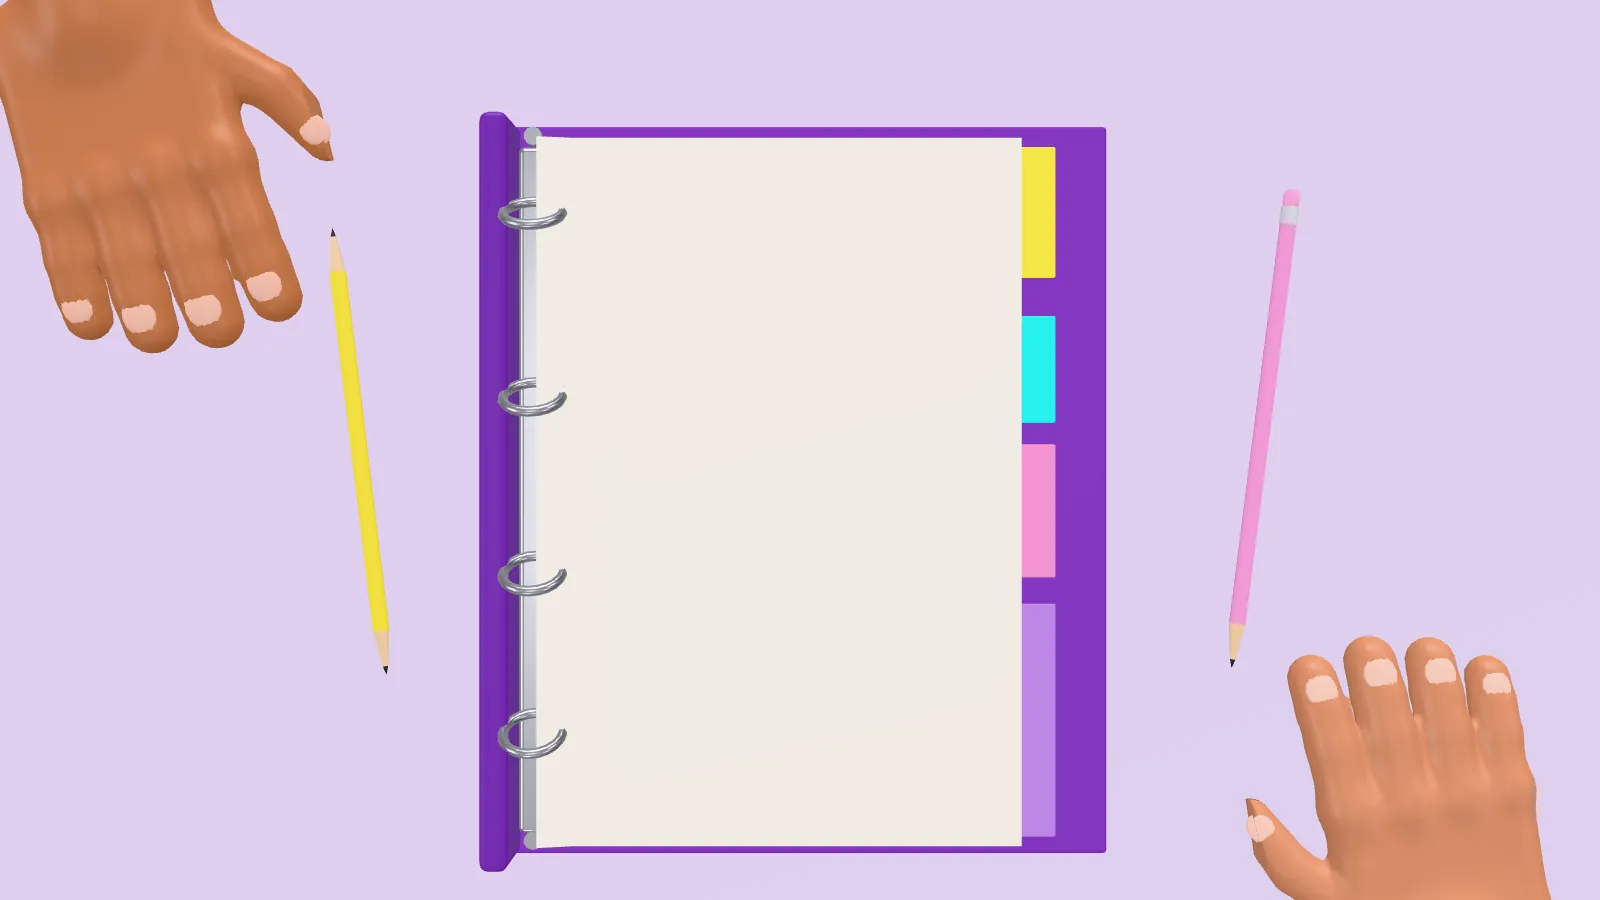
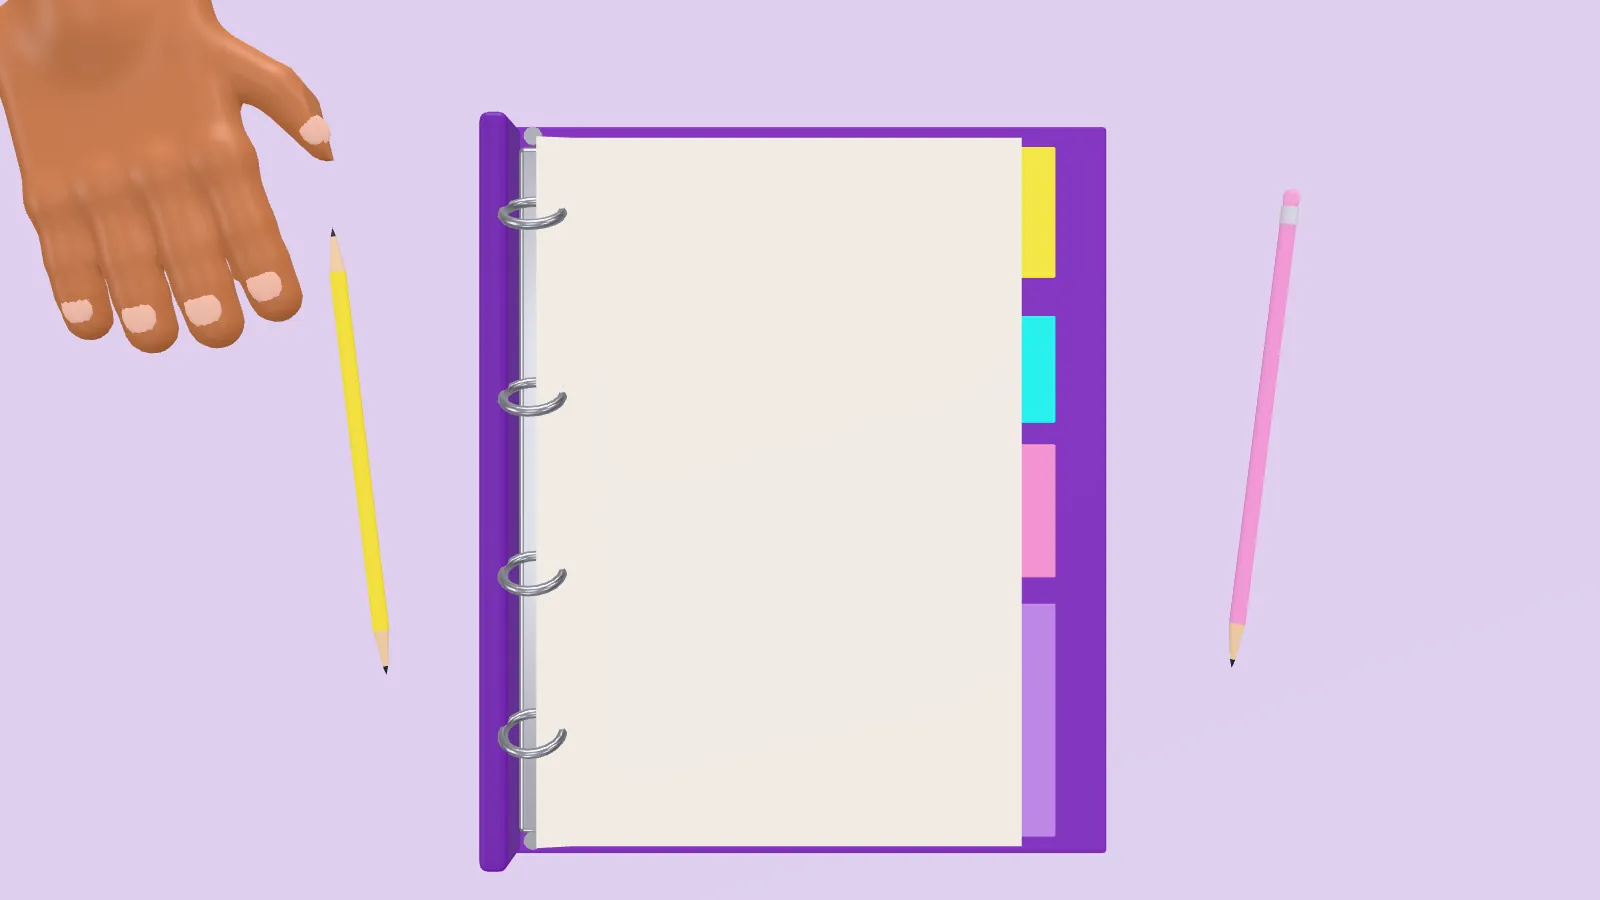
Draw Bu Dewi's close-up hand back out of view as she lets go of the leaflet (#14)
In the top views her own forearm folds into the close-up hand's sleeve, which
ended 0.27 m from her elbow at K3 and 0.55 m once the hand moved beside the
binder in beat 4. Both ends stayed out of frame at K3 and K4, but as the camera
rose and turned to K4.1 the gap showed: a sleeve coming down left of the binder,
her body at the top right.

As she lets go (beat 4 letGo), the close-up hand now slides back along its
sleeve out of the bottom of the frame and is switched off; her own forearm
unfolds and her right hand returns to the counter in front of her. Heru's hand,
the camera, timing and copy are unchanged. The K4 pc still is re-rendered
without her hand.

Refs #14

Changed region(s): [[0.7812, 0.6844, 0.9688, 1.0]]

diff --git a/site/world/sets/counterProps.ts b/site/world/sets/counterProps.ts
@@ -11,7 +11,7 @@ import { clean, G, mtx, type Kit, type Vec3 } from "../core/kit";
 import { rectAnchorFrom, type Anchor } from "../core/anchors";
 import { BINDER, counterLayout, type CounterLayout } from "../takes/home/counter";
 import { PAGE, PAGE_COPY, TABS } from "./binderLayout";
-import { beatAt, DEWI_HOLDS, phase4, type Beat3 } from "../takes/home/counterCast";
+import { beatAt, dewiCloseHand, phase4, type Beat3 } from "../takes/home/counterCast";
 import type { CloseHands } from "../cast/closeHand";
 
 /** The close-up hands replace the cast's own hands once the camera looks down steeper than this (radians). */
@@ -19,12 +19,18 @@ export const HANDS_PITCH = -THREE.MathUtils.degToRad(60);
 /**
  * Where the close-up hands lie, from the keyframes: the middle fingertip relative to a leaflet corner (K3:
  * Heru's on the corner nearest him on the left, Bu Dewi's on the one nearest her on the right) or to the binder
- * (K4), and the way the fingers point (yaw; 0 = fingers toward Bu Dewi).
+ * (K4, Heru's only), and the way the fingers point (yaw; 0 = fingers toward Bu Dewi).
  */
 const HAND_AT = {
   heru: { hold: { tip: [-0.03, -0.025], yaw: 0.3 }, rest: { tip: [0.256, 0.074], yaw: 0.25 } },
-  dewi: { hold: { tip: [0.028, 0.038], yaw: Math.PI + 0.55 }, rest: { tip: [-0.25, -0.075], yaw: Math.PI + 0.15 } },
+  dewi: { hold: { tip: [0.028, 0.038], yaw: Math.PI + 0.55 } },
 } as const;
+/**
+ * Issue #14: in beat 4 Bu Dewi's close-up hand no longer rests beside the binder (its sleeve ended ±0.55 m from
+ * her elbow, and the arm read as cut off once the camera rose to K4.1). As she lets go it is drawn back along its
+ * sleeve toward her, this far (metres), out of the bottom of the top view; then her own arm takes over.
+ */
+const DEWI_DRAW_BACK = 0.5;
 
 /** Purple strip of the leaflet: 11 mm below its top edge, 3 mm wide, edge to edge (K3 pc and hp). */
 const STRIP = { from: 0.011, width: 0.003 };
@@ -310,9 +316,10 @@ export function createCounterProps(kit: Kit, signal?: AbortSignal) {
 
   /**
    * Pose for the scroll position p, the camera's pitch and Heru's beat-3 state (leaflet in his hand or laid
-   * down). Beat 4 (K3 → K4) from its own clock (`k4`, 0..1; see counterCast): Bu Dewi lets go, Heru slides the leaflet out to the left, pulls the
-   * binder to the middle, its cover folds under, and both hands come to rest beside it. Returns true when
-   * something moved (the shadow map is redrawn).
+   * down). Beat 4 (K3 → K4) from its own clock (`k4`, 0..1; see counterCast): Bu Dewi lets go and draws her
+   * hand back out of view, Heru slides the leaflet out to the left, pulls the binder to the middle, its cover
+   * folds under, and his hand comes to rest beside it. Returns true when something moved (the shadow map is
+   * redrawn).
    */
   const fade = { leaflet: 0, page: 0 };
   let last = "";
@@ -340,21 +347,21 @@ export function createCounterProps(kit: Kit, signal?: AbortSignal) {
     binder.position.copy(L.binderK3).lerp(L.binderK4, pull).setY(y);
     binder.updateMatrixWorld(true);
     // the close-up hands, in the top views only, each once its own hand is on the leaflet (Heru's once it is
-    // laid down, Bu Dewi's once she has reached its corner)
+    // laid down, Bu Dewi's once she has reached its corner, until she has drawn it back out of view)
     const hs = L.portrait ? 0.7 : 1,
       seen = !!hands && on && pitch < HANDS_PITCH,
-      top = { heru: seen && (b3?.lay ?? 0) > 0.99, dewi: seen && s3 >= DEWI_HOLDS };
+      top = { heru: seen && (b3?.lay ?? 0) > 0.99, dewi: seen && dewiCloseHand(s3, u) };
     const key = `${L.f.x0} ${top.heru} ${top.dewi} ${b3?.c.toFixed(4)} ${u.toFixed(5)}`;
     if (key === last) return false;
     last = key;
     if (!hands) return true;
     const slide = 0.42 * THREE.MathUtils.smootherstep(phase4(u, "slide"), 0, 1);
-    const at = (who: "heru" | "dewi", pose: "hold" | "rest", base: THREE.Vector3, lift = 0): HandAt => ({
-      pose,
-      tip: new THREE.Vector3(base.x + HAND_AT[who][pose].tip[0], 0, base.z + HAND_AT[who][pose].tip[1]),
-      yaw: HAND_AT[who][pose].yaw,
-      lift,
-    });
+    const at = (
+      pose: "hold" | "rest",
+      spot: { tip: readonly [number, number]; yaw: number },
+      base: THREE.Vector3,
+      lift = 0,
+    ): HandAt => ({ pose, tip: new THREE.Vector3(base.x + spot.tip[0], 0, base.z + spot.tip[1]), yaw: spot.yaw, lift });
     const cornerH = new THREE.Vector3(L.leaflet.x + L.leafX / 2 + slide, 0, L.leaflet.z + L.leafZ / 2),
       cornerD = new THREE.Vector3(L.leaflet.x - L.leafX / 2, 0, L.leaflet.z - L.leafZ / 2),
       onBinder: HandAt = {
@@ -363,10 +370,16 @@ export function createCounterProps(kit: Kit, signal?: AbortSignal) {
         yaw: 0.3,
         lift: BINDER.h - 0.004,
       };
-    const heruHold = at("heru", "hold", cornerH, 0.0012),
-      heruRest = at("heru", "rest", L.binderK4),
-      dewiHold = at("dewi", "hold", cornerD, 0.0012),
-      dewiRest = at("dewi", "rest", L.binderK4);
+    const heruHold = at("hold", HAND_AT.heru.hold, cornerH, 0.0012),
+      heruRest = at("rest", HAND_AT.heru.rest, L.binderK4),
+      dewiHold = at("hold", HAND_AT.dewi.hold, cornerD, 0.0012),
+      // back along the sleeve (the hand's +z, turned by its yaw), toward her
+      dewiAway: HandAt = {
+        ...dewiHold,
+        tip: dewiHold.tip
+          .clone()
+          .addScaledVector(new THREE.Vector3(Math.sin(dewiHold.yaw), 0, Math.cos(dewiHold.yaw)), DEWI_DRAW_BACK),
+      };
     const heruAt =
       phase4(u, "toBinder") <= 0
         ? heruHold
@@ -375,7 +388,7 @@ export function createCounterProps(kit: Kit, signal?: AbortSignal) {
           : phase4(u, "rest") <= 0
             ? onBinder
             : between(onBinder, heruRest, phase4(u, "rest"));
-    const dewiAt = between(dewiHold, dewiRest, phase4(u, "letGo"));
+    const dewiAt = between(dewiHold, dewiAway, phase4(u, "letGo"));
     for (const [who, a] of [
       ["heru", heruAt],
       ["dewi", dewiAt],

diff --git a/site/world/takes/home/counterCast.ts b/site/world/takes/home/counterCast.ts
@@ -174,14 +174,21 @@ export const heru3End = (step: number, t: number) => walkTime(walkFor(step, t)) 
 
 /** Screens into beat 3 by which Bu Dewi's hand rests on the leaflet's corner (her close-up hand may show). */
 export const DEWI_HOLDS = 1.75;
+/**
+ * Whether Bu Dewi's close-up hand is in play (screens into beat 3, beat-4 progress): from when it holds the
+ * leaflet's corner until she has let go and drawn it back out of the top view (issue #14: it no longer goes
+ * beside the binder, far from her elbow; her own arm takes over, whole).
+ */
+export const dewiCloseHand = (s: number, k4: number) => s >= DEWI_HOLDS && phase4(k4, "letGo") < 1;
 
 /** Bu Dewi's face once Heru lays the leaflet down: interested (brows up, a small smile). */
 const INTERESTED = { browTilt: 0.06, browLift: 0.008, smile: 0.32 };
 
 /**
  * Bu Dewi's pose for scroll p from her K2 pose: head up as Heru comes (blockout ±3 s), down at the leaflet when
- * he lays it, her right hand to the leaflet's corner nearest her (during the tilt down) and, in beat 4, to the
- * counter beside the binder. Her hand targets are world points turned into her own frame.
+ * he lays it, her right hand to the leaflet's corner nearest her (during the tilt down) and, in beat 4, back to
+ * the counter in front of her as she lets go (issue #14). Her hand targets are world points turned into her own
+ * frame.
  */
 export function dewiPose3(m: CastMember, base: Pose, p: number, step: number, k4 = beatAt(p).u, relax = 0): Pose {
   const { s } = beatAt(p),
@@ -189,13 +196,12 @@ export function dewiPose3(m: CastMember, base: Pose, p: number, step: number, k4
   const lift = smoothstep(0.55, 0.85, s) * (1 - smoothstep(1.0, 1.3, s)),
     down = smoothstep(1.0, 1.3, s),
     reach = smoothstep(1.35, DEWI_HOLDS, s),
-    rest = smoothstep(0, 1, phase4(k4, "letGo"));
+    // beat 4: she lets go and her hand goes back to the counter in front of her (her K2 hand)
+    hold = reach * (1 - smoothstep(0, 1, phase4(k4, "letGo")));
   const local = (v: THREE.Vector3) => m.mesh.worldToLocal(v.clone()).toArray() as Vec3;
   // her wrist behind the corner (toward her) and a little above the counter
   const corner = new THREE.Vector3(L.leaflet.x - L.leafX / 2, L.f.top, L.leaflet.z - L.leafZ / 2),
-    atCorner = corner.clone().add(new THREE.Vector3(0.02, 0.045, -0.085)),
-    atRest = new THREE.Vector3(L.binderK4.x - 0.25, L.f.top + 0.04, L.binderK4.z - 0.165),
-    target = new THREE.Vector3(...local(atCorner)).lerp(new THREE.Vector3(...local(atRest)), rest);
+    target = local(corner.clone().add(new THREE.Vector3(0.02, 0.045, -0.085)));
   const R0 = base.R!;
   const lerp3 = (a: Vec3, b: Vec3, k: number) => a.map((v, i) => v + (b[i] - v) * k) as Vec3;
   const head = base.head ?? [0, 0, 0];
@@ -205,8 +211,8 @@ export function dewiPose3(m: CastMember, base: Pose, p: number, step: number, k4
     spine: [0.32 * reach * (1 - relax), 0, 0],
     head: [head[0] - 0.14 * lift + 0.4 * down - 0.2 * reach, head[1], head[2] * (1 - Math.max(lift, down))],
     R: {
-      at: lerp3(R0.at, target.toArray() as Vec3, reach * (1 - relax)),
-      fingers: lerp3(R0.fingers, [0, -0.6, 1], reach * (1 - relax)),
+      at: lerp3(R0.at, target, hold * (1 - relax)),
+      fingers: lerp3(R0.fingers, [0, -0.6, 1], hold * (1 - relax)),
     },
     face: s >= 1.0 ? INTERESTED : base.face,
   };

diff --git a/site/world/index.ts b/site/world/index.ts
@@ -42,7 +42,7 @@ import {
   B4_SECONDS,
   beat4Clock,
   beatAt,
-  DEWI_HOLDS,
+  dewiCloseHand,
   dewiPose3,
   heru3Clock,
   phase4,
@@ -840,7 +840,7 @@ export async function mount(host: HTMLElement, opts: WorldOptions = {}) {
     // from the last frame's camera); posed again when that changes, so their arm IK never runs folded
     const folds = [
       [heru, topView && beat3 && (b3?.lay ?? 0) > 0.99],
-      [crew.find((x) => x.name === "dewi"), topView && beat3 && beatAt(shown).s >= DEWI_HOLDS],
+      [crew.find((x) => x.name === "dewi"), topView && beat3 && dewiCloseHand(beatAt(shown).s, b4Time / B4_SECONDS)],
     ] as const;
     for (const [m, folded] of folds) {
       const fold = folded ? 1e-3 : 1;

diff --git a/PLAN.md b/PLAN.md
@@ -1538,3 +1538,22 @@ Detail di **[PLAN-SOLUSI.md](PLAN-SOLUSI.md)**: sumber v1, arsitektur etalase, d
 - Komentar revisi dikirim di issue #8 (issuecomment-6783124647).
 - Keputusan user: "Commit saja". Di-commit ke `main` (Refs #8; hanya `world/index.ts`, `takes/home/outsideCast.ts` dan entri log ini; pekerjaan Solusi dan entri log lain tidak ikut). Belum di-push; issue #8 tetap open sampai push.
 - Belum: still K5a.1 tidak dirender ulang (daun kanan di still masih tertutup); tes di HP Android sungguhan; konfirmasi user, commit, push, tutup issue.
+
+### 2026-11-11 (issue GitHub #14: tangan Bu Dewi kembali ke badannya di K3 → K4)
+
+- Issue #14 (revisi user di komentar: tangan Bu Dewi tidak ke samping binder, tangan Heru tetap). Direproduksi di build produksi (port 3300, skrip scratchpad, Playwright `?hud`, posisi tiap 0,1 layar): di tampak atas lengan bawah kanan Bu Dewi dilipat dan diganti tangan close-up, yang ujung lengan bajunya berjarak 0,27 m (PC) / 0,17 m (HP) dari sikunya di K3, lalu 0,55 / 0,35 m setelah tangannya pindah ke samping binder di K3 → K4. Di K3 dan jeda K4 celah itu di luar frame; saat kamera naik dan berputar ke K4.1 (8,9–9,02 layar) tangan close-up masih tampil, jadi lengannya terlihat putus (lengan dari atas di kiri binder, badan di kanan atas), di PC dan HP.
+- Keputusan user: pilihan A (tangan kembali ke badannya, keluar frame, lengan asli utuh lagi).
+- Diubah:
+  - `sets/counterProps.ts`: saat Bu Dewi melepas leaflet (`letGo`, 0–35% beat 4) tangan close-up-nya ditarik mundur 0,5 m menyusuri lengan bajunya (`DEWI_DRAW_BACK`) sampai keluar dari bawah frame, lalu dimatikan; `HAND_AT.dewi.rest` dihapus.
+  - `takes/home/counterCast.ts`: `dewiCloseHand(s, k4)` (dari memegang sudut leaflet sampai `letGo` selesai); `dewiPose3` mengembalikan tangan kanan aslinya ke konter di depannya (pose K2) saat melepas, bukan ke samping binder.
+  - `world/index.ts`: lengan bawah Bu Dewi dilipat hanya selama `dewiCloseHand`.
+  - `site/public/stills/pc/k4.webp` dirender ulang (tanpa tangan Bu Dewi). K4 HP sama persis; K4.1 tidak dirender ulang (selisihnya gelembung pikiran issue #3, bukan dari perbaikan ini).
+  - Tangan Heru, kamera, timing dan copy tidak berubah.
+- Dicek (build produksi, port 3300):
+  - posisi tiap 0,05 layar 7,2–9,2 di 1280×720, 768×1024 dan 375×812: tangan close-up keluar frame di 7,40 dan dimatikan di ±7,51; jeda K4 tanpa tangan Bu Dewi dan ujung jari tangan aslinya tidak masuk frame (pergelangan di 1,59 / 1,25 / 1,08 tinggi layar); naik ke K4.1 lengannya utuh;
+  - scroll mulus maju lalu mundur 7,0 ↔ 9,3 (2 s/layar di ketiga viewport, 1 s/layar PC, 0,6 s/layar HP): 0 frame tangan muncul atau hilang di dalam frame; lipatan lengan selalu sejalan dengan tangan close-up; tanpa pageerror;
+  - frame PC, tablet dan HP dicek visual (hanya di chat);
+  - `tools/render/issue4.mjs` 73/73 dan `issue4-loading.mjs` 25/25; typecheck, ESLint, Prettier (file yang diubah) dan `npm run build` lulus.
+- Komentar Penyebab, Perbaikan, Dicek, Belum dikirim di issue #14 lewat Chrome (issuecomment-6787693135).
+- Keputusan user: "Ok, commit saja". Di-commit ke `main` (Refs #14; hanya `world/index.ts`, `sets/counterProps.ts`, `takes/home/counterCast.ts`, still `pc/k4.webp` dan entri log ini; pekerjaan Solusi dan entri log lain tidak ikut). Belum di-push; issue #14 tetap open sampai push.
+- Belum: tes di HP Android sungguhan, push, tutup issue.
